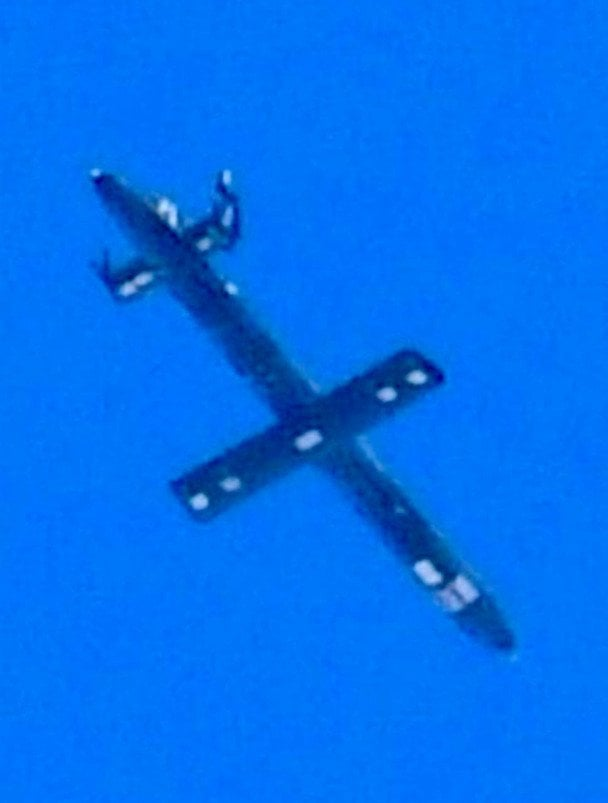
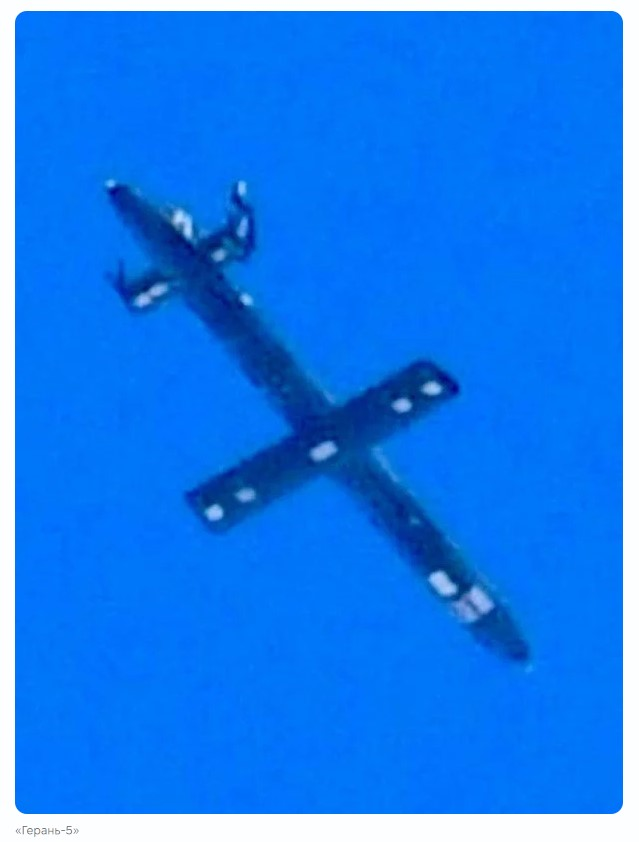
fix: replace Geran-5 seed image with full uncropped photo

diff --git a/atlas/index.html b/atlas/index.html
@@ -1901,7 +1901,7 @@ const IMG={};                    /* {itemId:{url, meta}} — 렌더용 캐시 */
    IndexedDB(개인 브라우저 로컬 업로드)가 있으면 그쪽이 우선이며, seedImages()는
    loadImages()보다 먼저 실행되어 자리를 채워둔 뒤 로컬 업로드가 있으면 덮어써진다. */
 const SEED_IMG={
- ru_geran5:{url:"images/ru_geran5.jpg",bytes:28407,meta:{
+ ru_geran5:{url:"images/ru_geran5.jpg",bytes:46139,meta:{
    kind:"real",credit:"TSN.ua — Flash 제공 사진",
    src:"https://tsn.ua/ru/ato/novye-reaktivnye-gerani-5-uzhe-sbivayut-vozle-kieva-flesh-nazval-glavnuyu-opasnost-3161732.html",
    license:"보도자료 인용 (fair use 검토 필요)",
